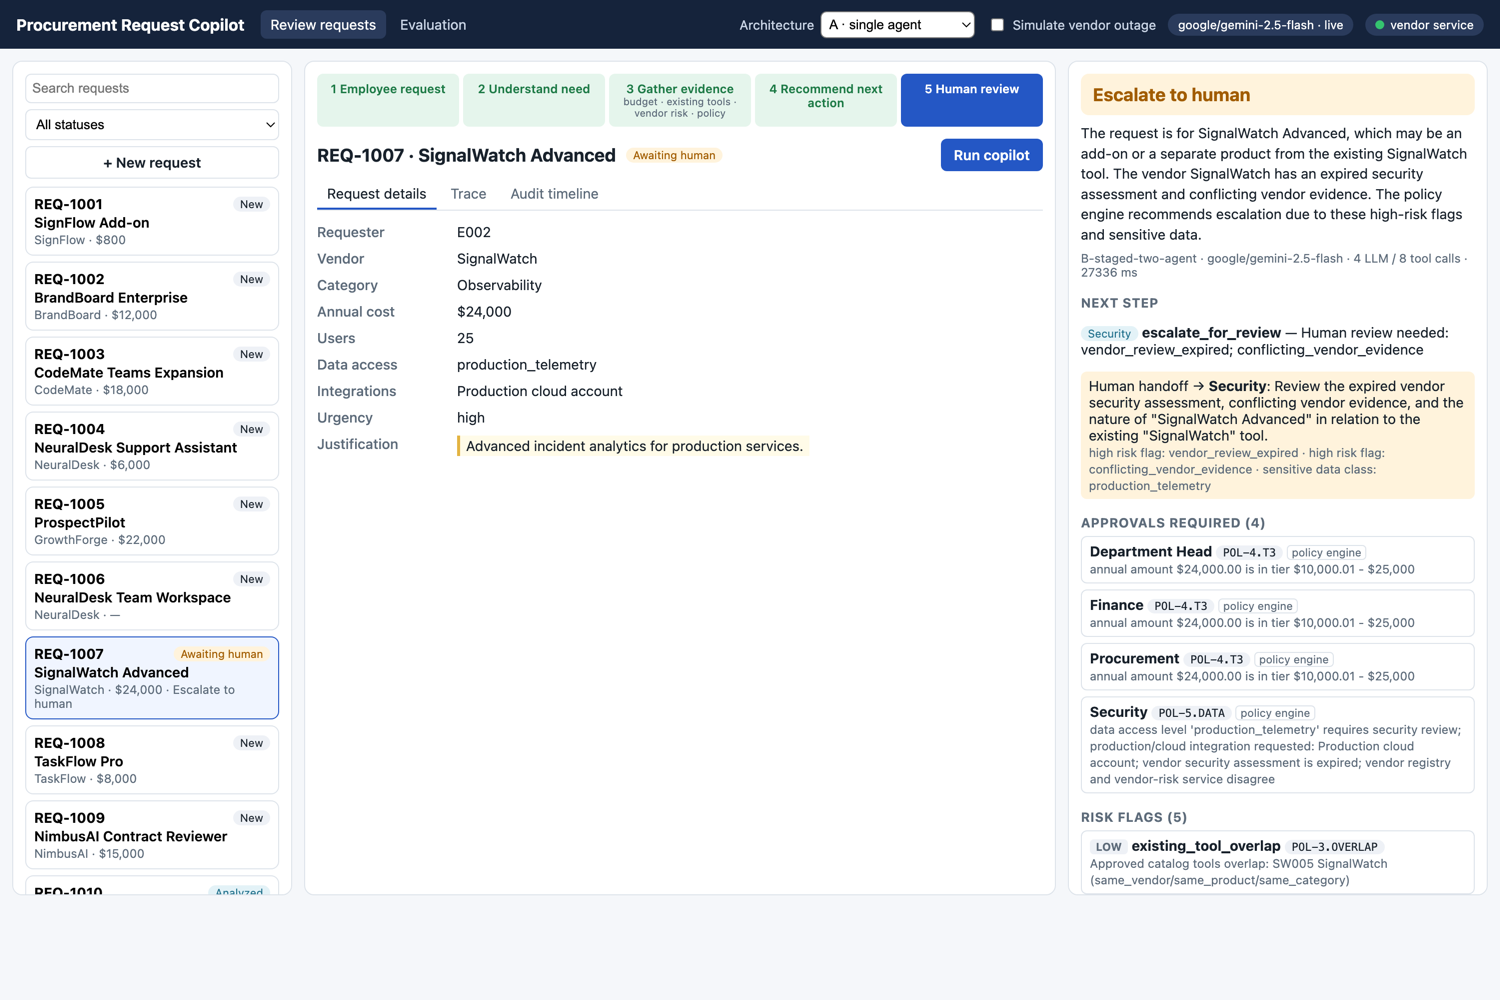
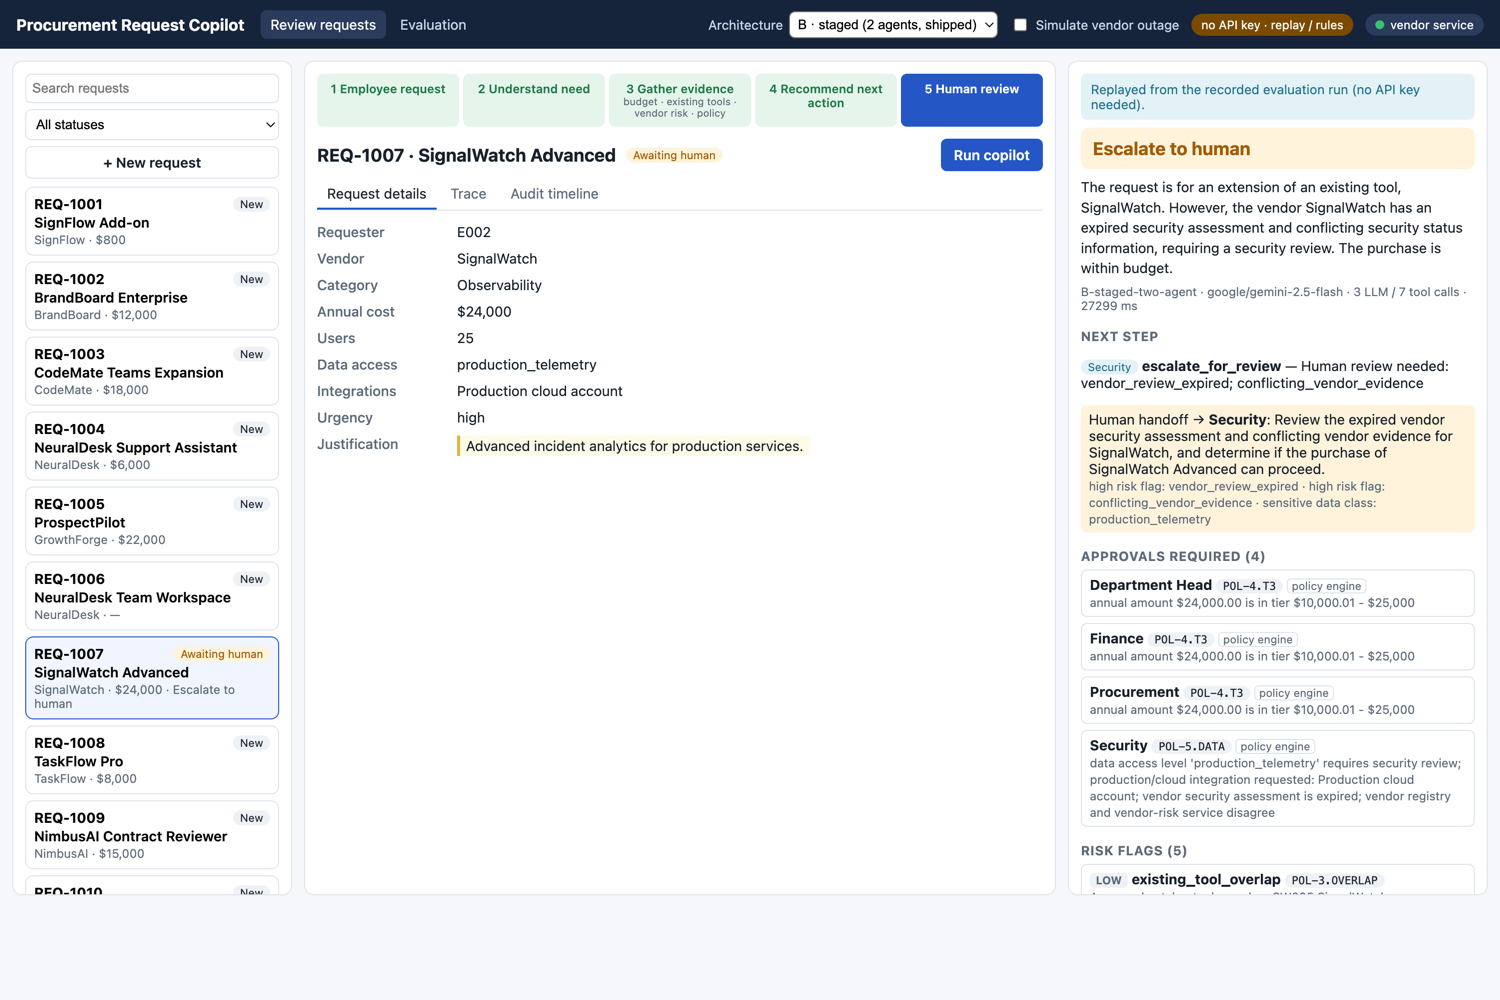
fix(ui): keep the hidden attribute authoritative so the evaluation view and empty states render correctly

Changed region(s): [[0.46, 0.0, 1.0, 0.899], [0.1227, 0.868, 0.184, 0.899]]

diff --git a/src/web/static/styles.css b/src/web/static/styles.css
@@ -5,6 +5,8 @@
   font-family: system-ui, -apple-system, "Segoe UI", Roboto, sans-serif; font-size: 14px; color: var(--ink);
 }
 * { box-sizing: border-box; }
+/* Component display rules (grid/flex) must not override the hidden attribute used for view and state toggles. */
+[hidden] { display: none !important; }
 body { margin: 0; background: var(--bg); }
 h2 { font-size: 18px; margin: 0; }
 h3 { font-size: 13px; text-transform: uppercase; letter-spacing: .04em; color: var(--muted); margin: 16px 0 6px; }
